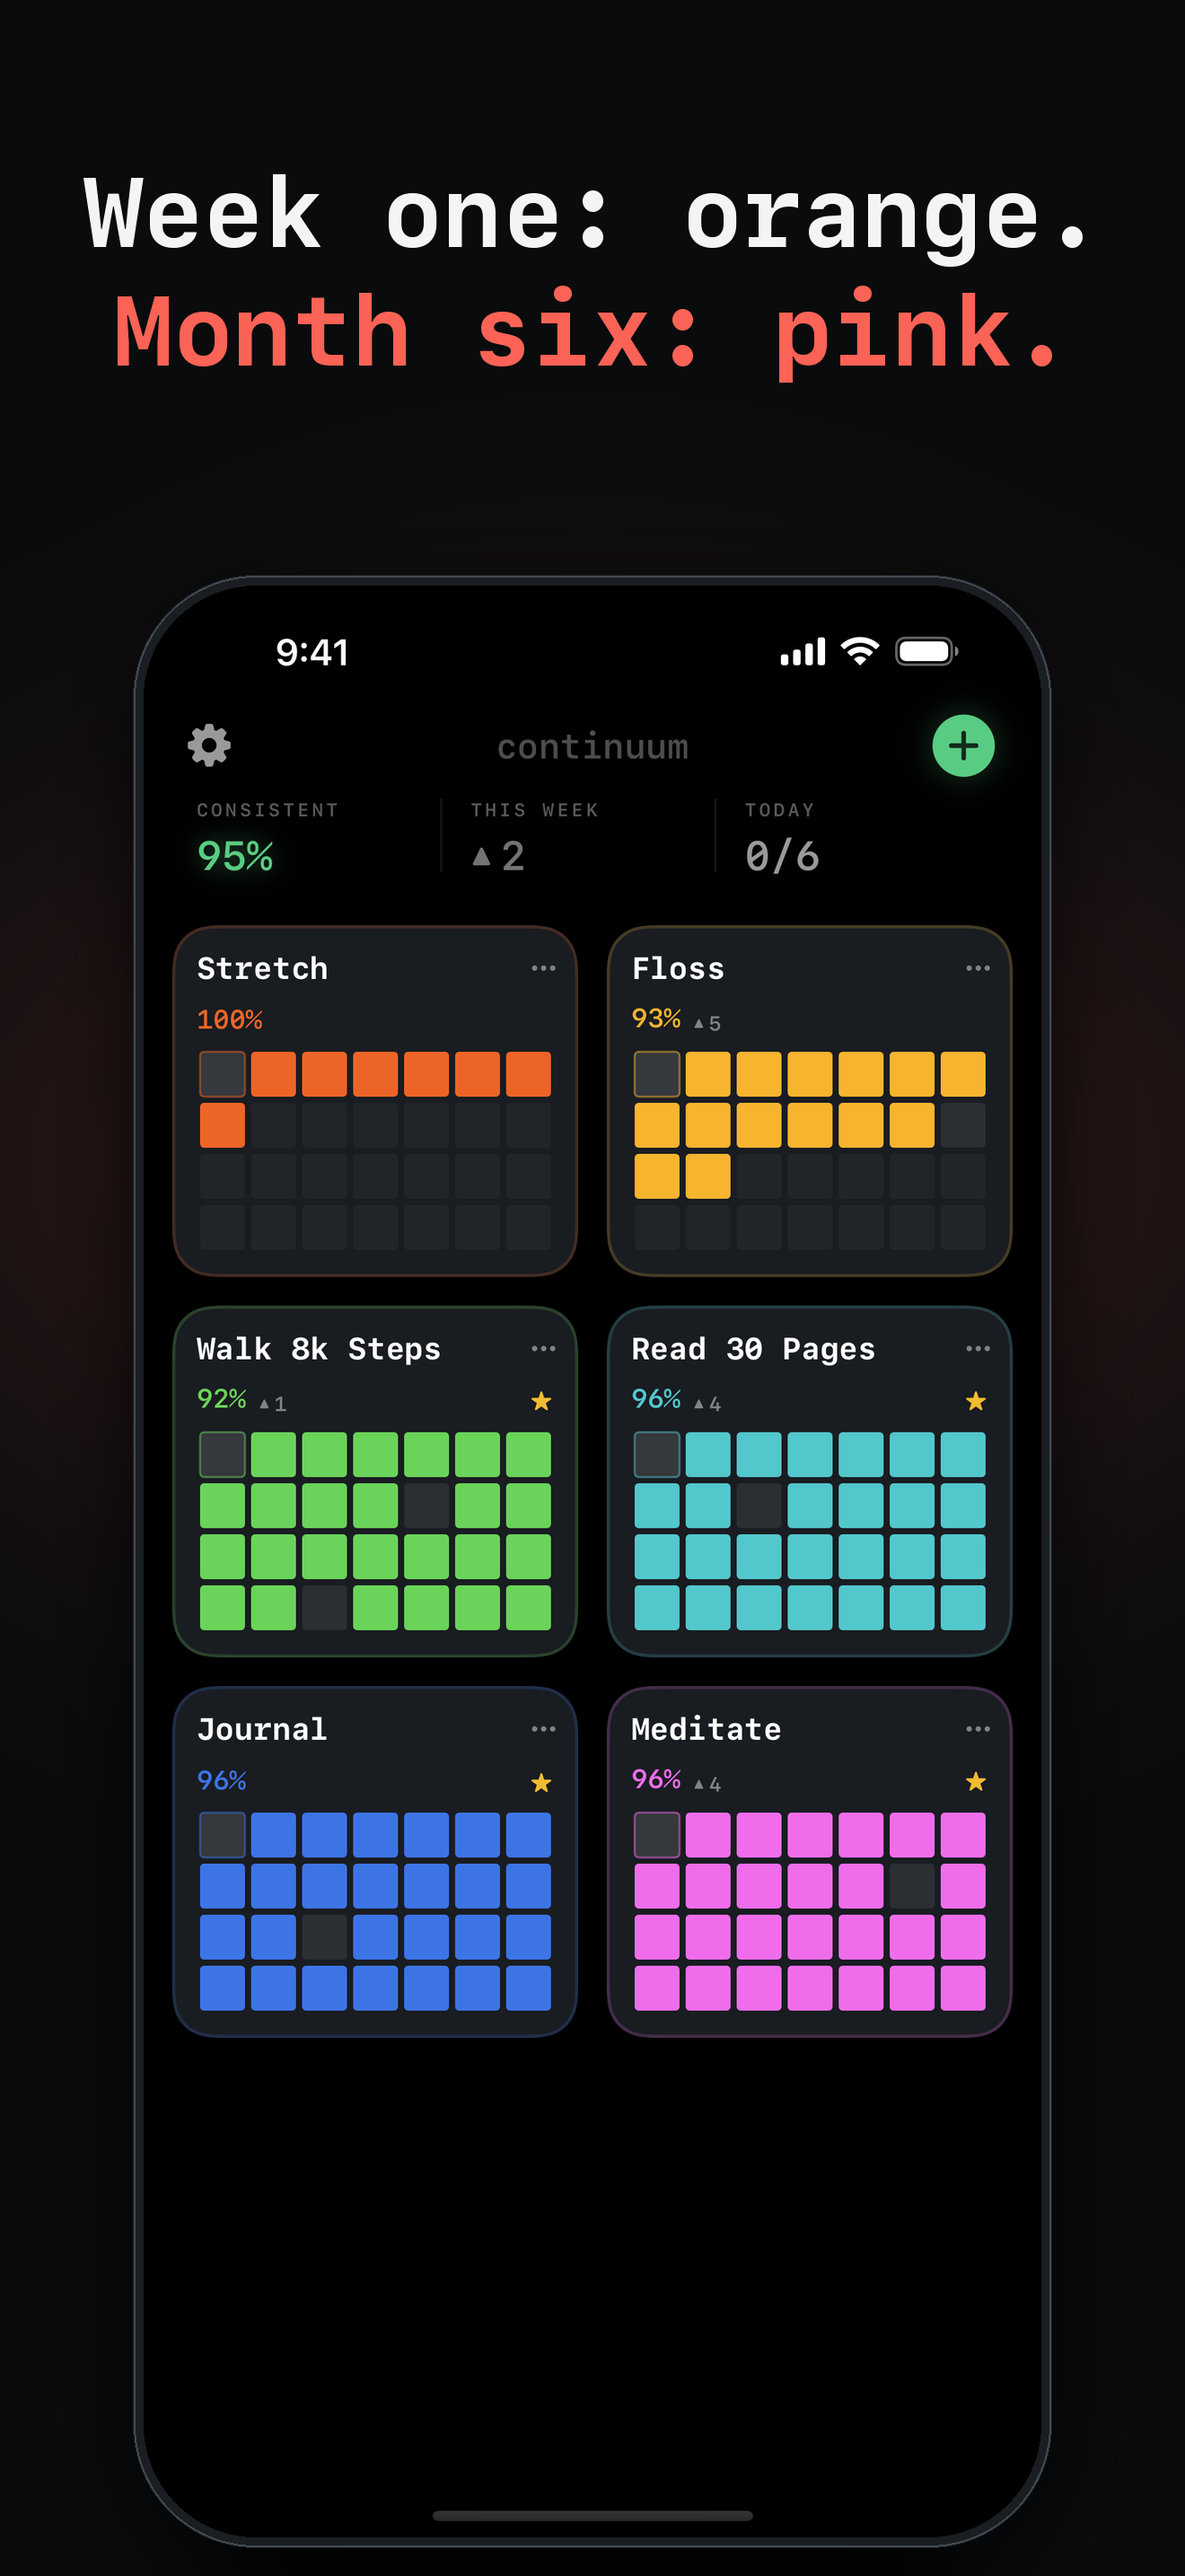
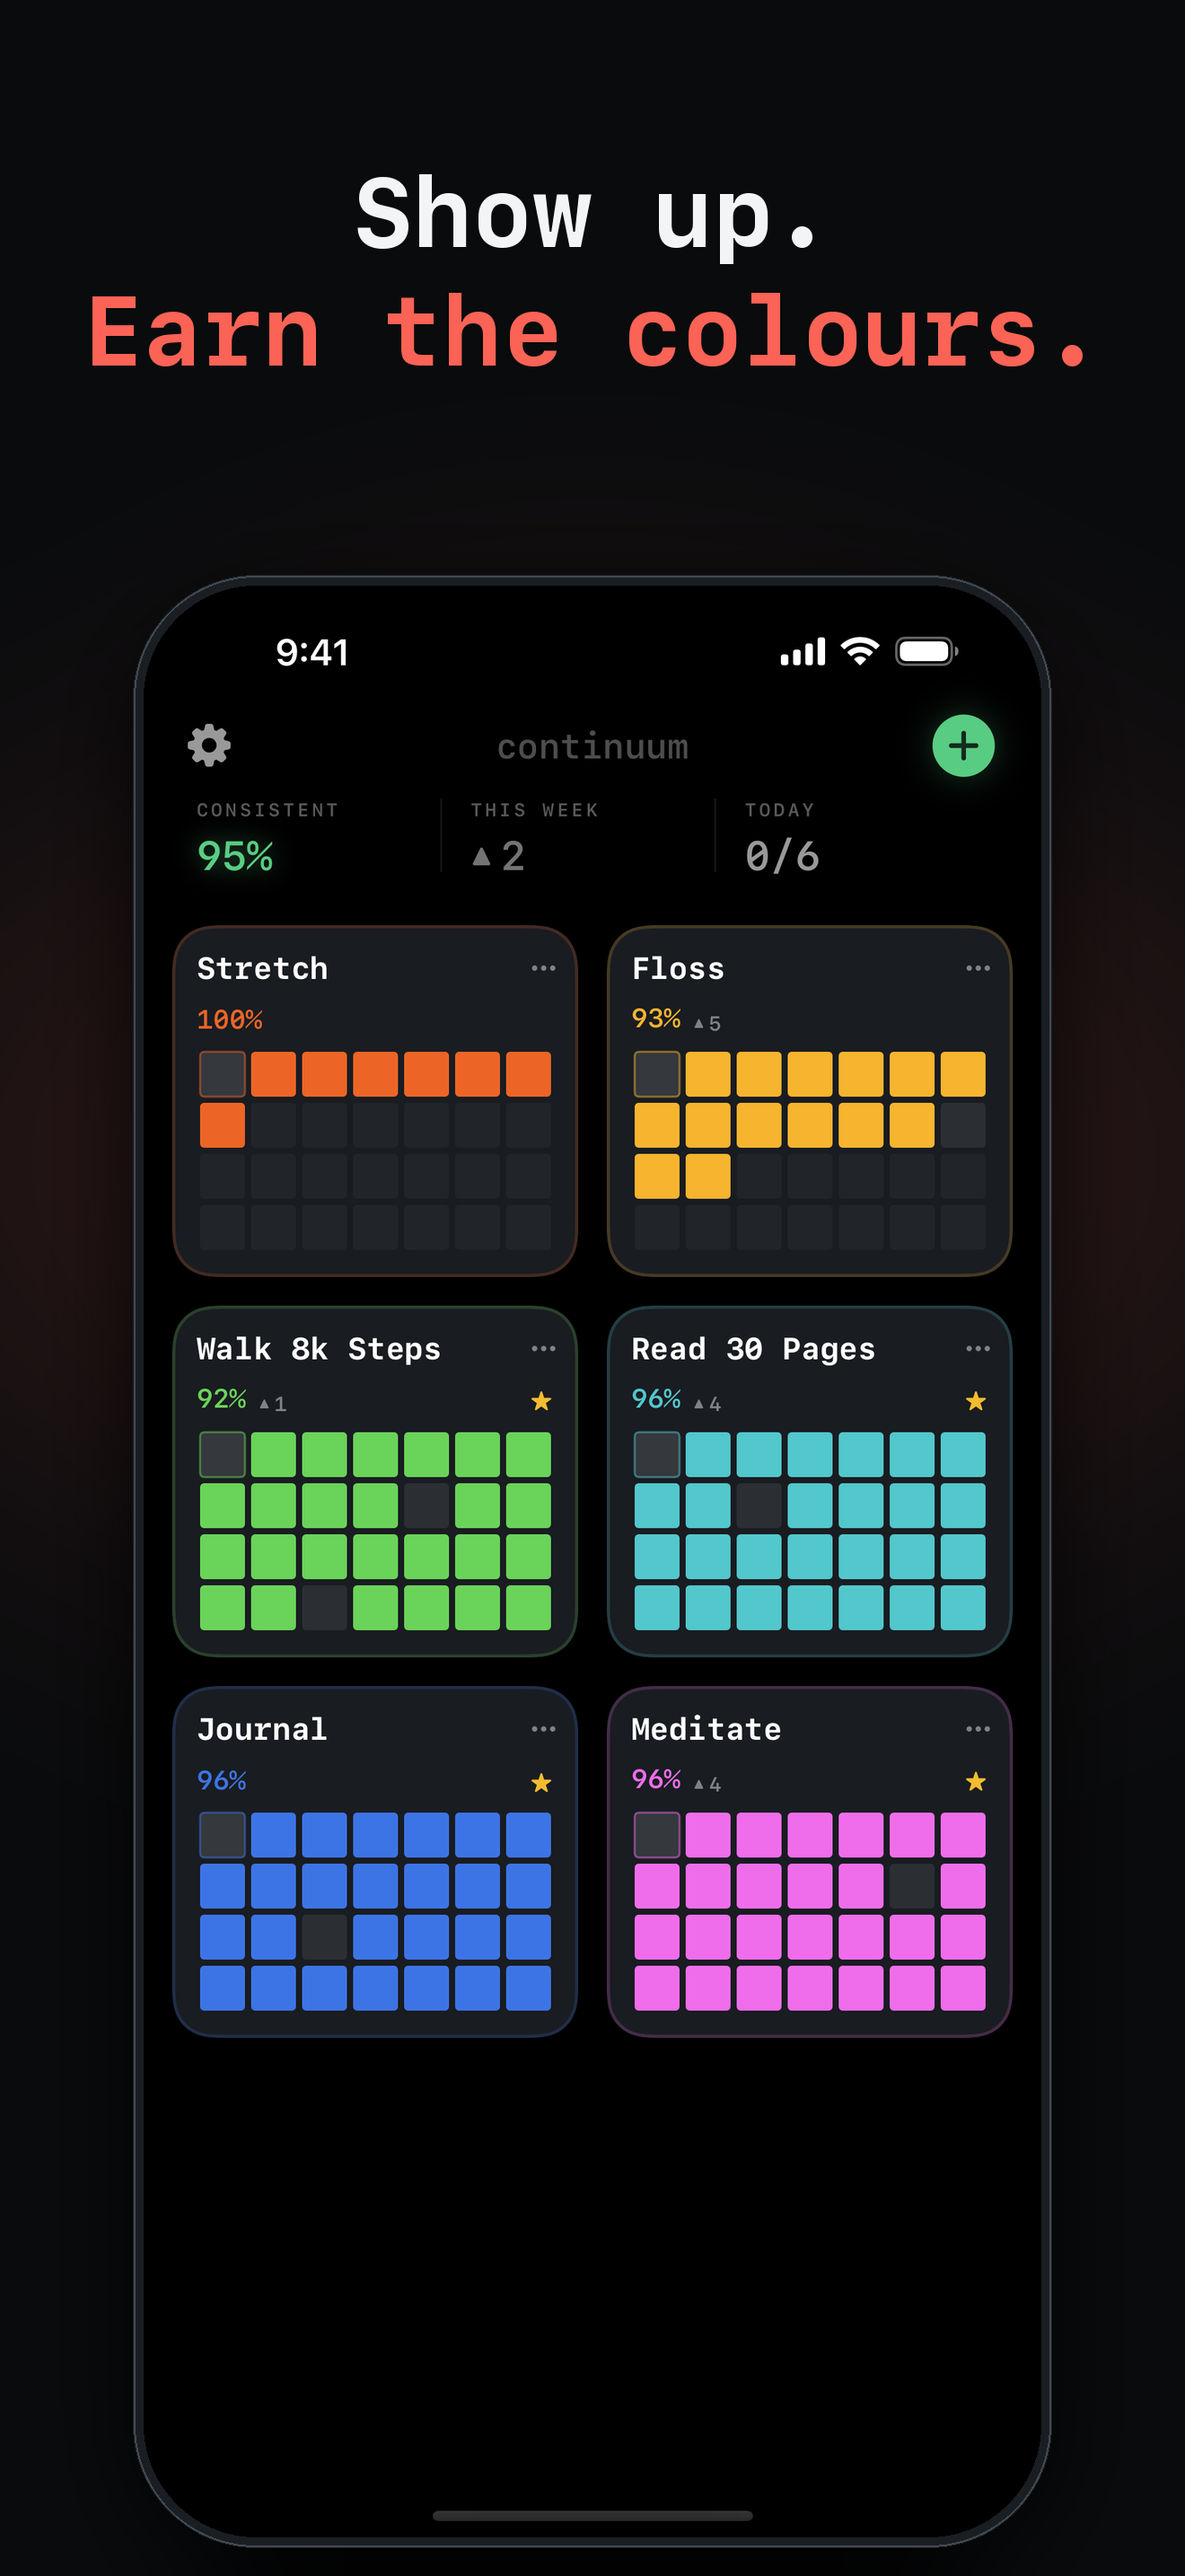
Shot 4 caption: Show up. / Earn the colours.

Changed region(s): [[0.0621, 0.0621, 0.9008, 0.1552]]

diff --git a/scripts/caption-screenshots.py b/scripts/caption-screenshots.py
@@ -29,7 +29,7 @@ SHOTS = [
     ("home.png", "01_consistency.png", "Miss a day.", "Nothing resets.", "consistency, not perfection", None),
     ("comeback.png", "02_never_miss_twice.png", "Missed yesterday?", "Don't miss twice.", None, None),
     ("stats.png", "03_week_by_week.png", "12 weeks.", "Watch it climb.", None, None),
-    ("colours.png", "04_colours.png", "Week one: orange.", "Month six: pink.", None, None),
+    ("colours.png", "04_colours.png", "Show up.", "Earn the colours.", None, None),
 ]
 
 

diff --git a/docs/ASO.md b/docs/ASO.md
@@ -19,7 +19,7 @@ app are searching for streak trackers after one of them reset on them.
 
 Screenshots for 3.9 (`AppStoreScreenshots/3.9/`, four, 1320x2868, 2026-11-04):
 the same first three retaken in the 28-day look and new colours, and
-`04_colours.png` ("Week one: orange. / Month six: pink.", seed
+`04_colours.png` ("Show up. / Earn the colours.", seed
 `seedForColourScreenshot`) replacing the 66-day graduation shot. Description
 and keywords dropped 66 for 3.9 (keyword "66" and "dot" out, "color" in).
 Seeds set their defaults in the test process, which may not reach disk; write
